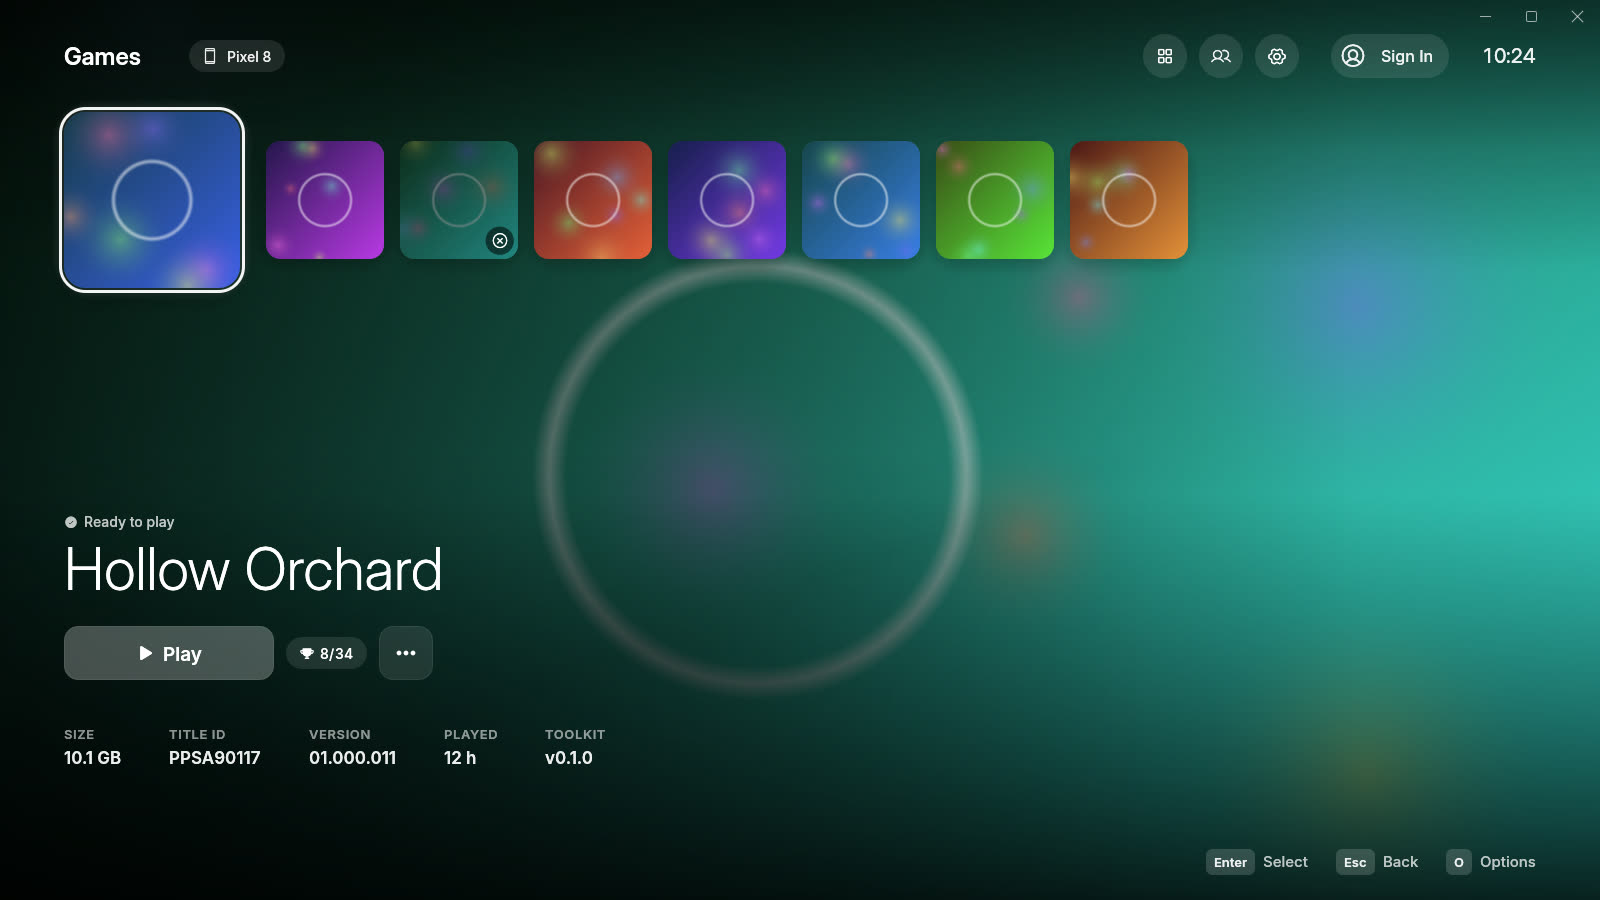
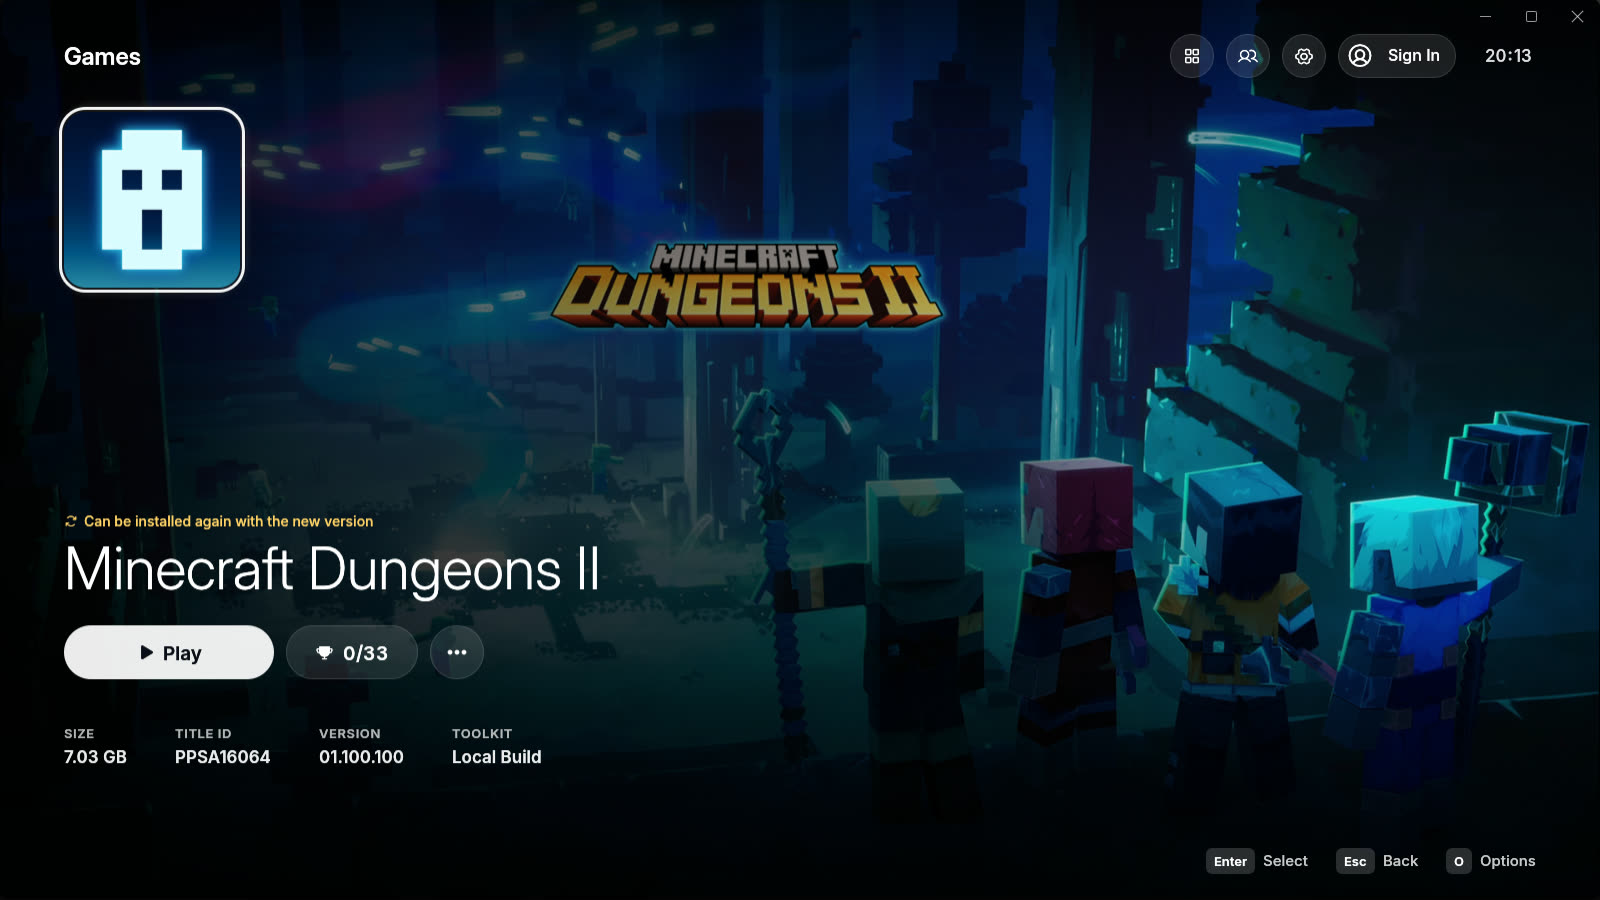
Real screenshots of the launcher in the README and docs (#101)
* Replace the gallery renders with real screenshots of the launcher

* README: Screens section; docs: note the real phone screenshot and the release checklist step

diff --git a/docs/DESIGN.md b/docs/DESIGN.md
@@ -2692,4 +2692,4 @@ The AnyPS5 Remote phone app of the macOS fork ([utkuhalis/AnyPS5-ARM](https://gi
   - *Top bar.* While a phone is welcomed, a pill 32 dp high (the buttons' surface, white 0.10) with the `device-mobile` glyph and the phone's name (14 medium, cut in the middle past 150 dp) sits 48 dp after the title, clear of the scanning spinner. It is a status, not a button: not focusable, named "Phone connected: Pixel 8" for screen readers. It is ink on the pill, not accent: the accent is for being online with the network.
   - *Words.* English and Turkish like the rest (`screens/phone_strings.rs`). The product text names no console brand.
 
-**Tests.** `fake-phone` (`crates/fake-phone`, never shipped) is a phone and a game in one binary: `fake-phone phone --addr 127.0.0.1:47700 --key-file k.txt --script "select:ID,launch:ID,press:cross,..."`, `fake-phone phone --discover` finds the PC through mDNS, `fake-phone game` greets on the bridge. `crates/fake-phone/tests/e2e.rs` drives the real server with it: protocol round trip, pairing and key reuse, an unpaired phone rejected, a denied phone rejected, a request flood limited. The unit tests of `remote` cover the packets (golden hex), the device file, the layouts file, the rate limiter, the on-link rule, the relay's identity checks, the mDNS adapter choice and the pad mapping. Screenshots of these scenes are in `docs/media/phone/`. Gallery scenes: `phone-off`, `phone-waiting`, `phone-pairing`, `phone-connected`, `phone-driver` (Windows without ViGEmBus), `phone-access` (Linux without access to uinput), `phone-failed`, and `home-phone` (the top bar). Not tested without hardware: a real phone on a real network and a real virtual pad in a real game (any game needs the user's go).
+**Tests.** `fake-phone` (`crates/fake-phone`, never shipped) is a phone and a game in one binary: `fake-phone phone --addr 127.0.0.1:47700 --key-file k.txt --script "select:ID,launch:ID,press:cross,..."`, `fake-phone phone --discover` finds the PC through mDNS, `fake-phone game` greets on the bridge. `crates/fake-phone/tests/e2e.rs` drives the real server with it: protocol round trip, pairing and key reuse, an unpaired phone rejected, a denied phone rejected, a request flood limited. The unit tests of `remote` cover the packets (golden hex), the device file, the layouts file, the rate limiter, the on-link rule, the relay's identity checks, the mDNS adapter choice and the pad mapping. The scenes render in the gallery; `docs/media/phone-off.jpg` is a real screenshot of the off state. Gallery scenes: `phone-off`, `phone-waiting`, `phone-pairing`, `phone-connected`, `phone-driver` (Windows without ViGEmBus), `phone-access` (Linux without access to uinput), `phone-failed`, and `home-phone` (the top bar). Not tested without hardware: a real phone on a real network and a real virtual pad in a real game (any game needs the user's go).

diff --git a/README.md b/README.md
@@ -1,7 +1,7 @@
 # AnyPlay Launcher
 
 <p align="center">
-  <img src="docs/media/home-screen.jpg" width="800" alt="The launcher's home screen: a row of game tiles, the selected game's name, a Play button and its details">
+  <img src="docs/media/home-screen.jpg" width="800" alt="The launcher's home screen: a row of game tiles, the selected game's artwork, its name, a Play button and its details">
 </p>
 
 The home of your games on PC. The launcher finds the games you dumped from your own console, unlocks them for [AnyPS5](https://github.com/boykopovar/AnyPS5) and starts them from a console-style home screen. It also connects you with friends for parties, calls and joining each other's games. For Windows and Linux.
@@ -14,6 +14,21 @@ Download the [latest release](https://github.com/anyplaynet/launcher/releases/la
 - **Linux, 64-bit:** `AnyPlay-Launcher-<version>-x86_64.AppImage` or the `.tar.gz`.
 
 You need your own decrypted game dumps. On first start the launcher asks for your games folder and downloads the AnyPS5 toolkit. Requirements, SmartScreen, checksums and data folders: [docs/INSTALL.md](docs/INSTALL.md).
+
+## Screens
+
+Screenshots of the launcher, taken from a release build with a real library.
+
+<table>
+  <tr>
+    <td width="50%"><img src="docs/media/home-minecraft.jpg" alt="Home screen with a game selected: artwork, title, Play button, trophy count, size, title ID and version"></td>
+    <td width="50%"><img src="docs/media/game-settings.jpg" alt="Game settings panel beside the home screen: display, window size, vertical sync, controls, save data and performance overlay"></td>
+  </tr>
+  <tr>
+    <td><img src="docs/media/settings.jpg" alt="Settings: appearance with theme, accent color, background and animations"></td>
+    <td><img src="docs/media/online.jpg" alt="The Online screen before signing in: Sign In, Create Account and the cloud to use"></td>
+  </tr>
+</table>
 
 ## What's inside
 

diff --git a/docs/BUILDING.md b/docs/BUILDING.md
@@ -55,7 +55,7 @@ The Mac package does not yet embed `anyplay-net`, so online integration needs a 
 
 ## Releases
 
-A release is made by pushing a tag `v<version>` that matches the version in `Cargo.toml`. The [release workflow](../.github/workflows/release.yml) builds the net service from [anyplaynet/network](https://github.com/anyplaynet/network) at the commit in `network.ref` and embeds it, then builds the portable exe and the installer (`tools/installer/anyplay-launcher.iss`, Inno Setup), the Linux AppImage and tarball, and a licence file for every third-party crate. It publishes all of them with their checksums in `SHA256SUMS.txt`. Started by hand it only builds them and keeps them as workflow artifacts. Release notes live in [docs/releases](releases).
+A release is made by pushing a tag `v<version>` that matches the version in `Cargo.toml`. The [release workflow](../.github/workflows/release.yml) builds the net service from [anyplaynet/network](https://github.com/anyplaynet/network) at the commit in `network.ref` and embeds it, then builds the portable exe and the installer (`tools/installer/anyplay-launcher.iss`, Inno Setup), the Linux AppImage and tarball, and a licence file for every third-party crate. It publishes all of them with their checksums in `SHA256SUMS.txt`. Started by hand it only builds them and keeps them as workflow artifacts. Release notes live in [docs/releases](releases). Before the tag, refresh the README screenshots in `docs/media` from the release build, taken with a separate profile and no personal data.
 
 ## More
 
